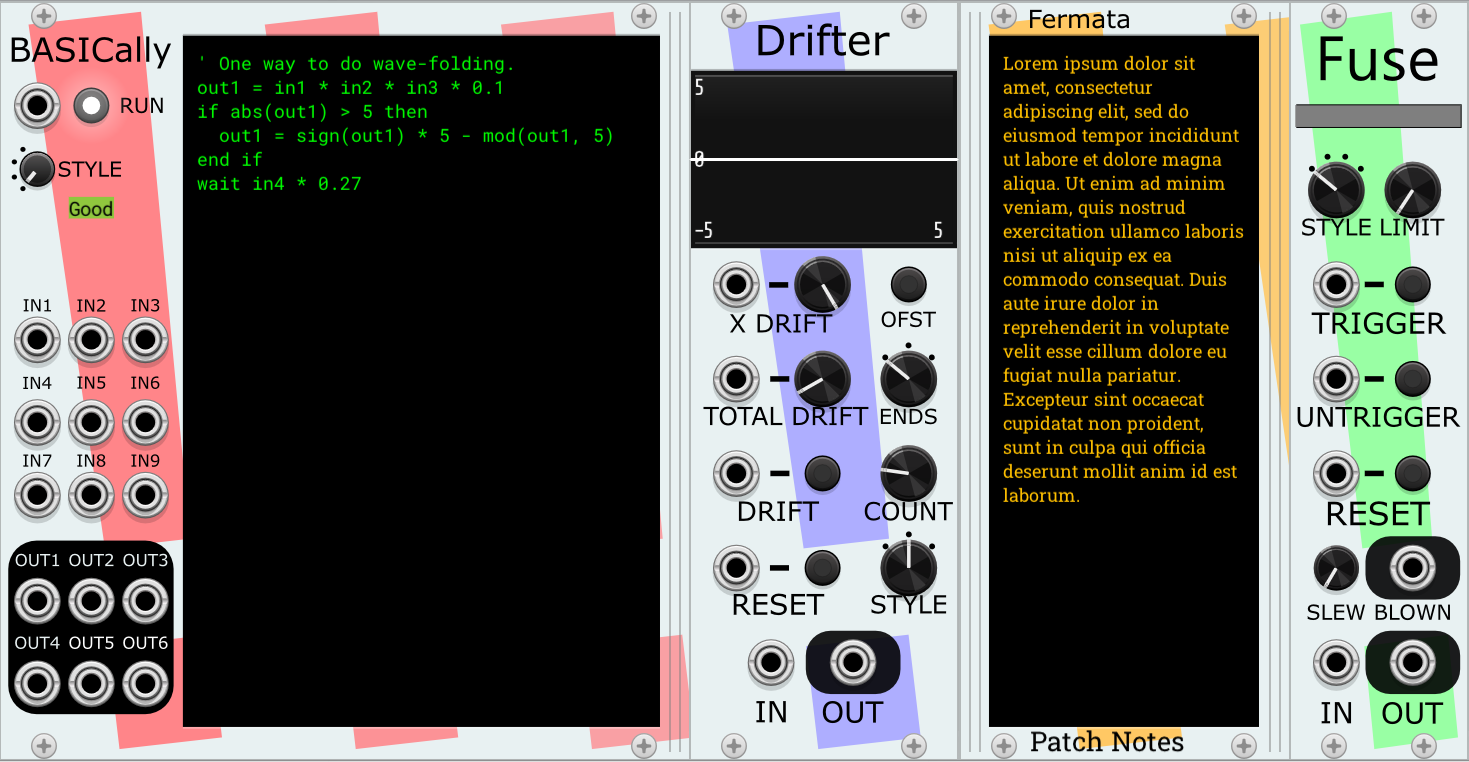
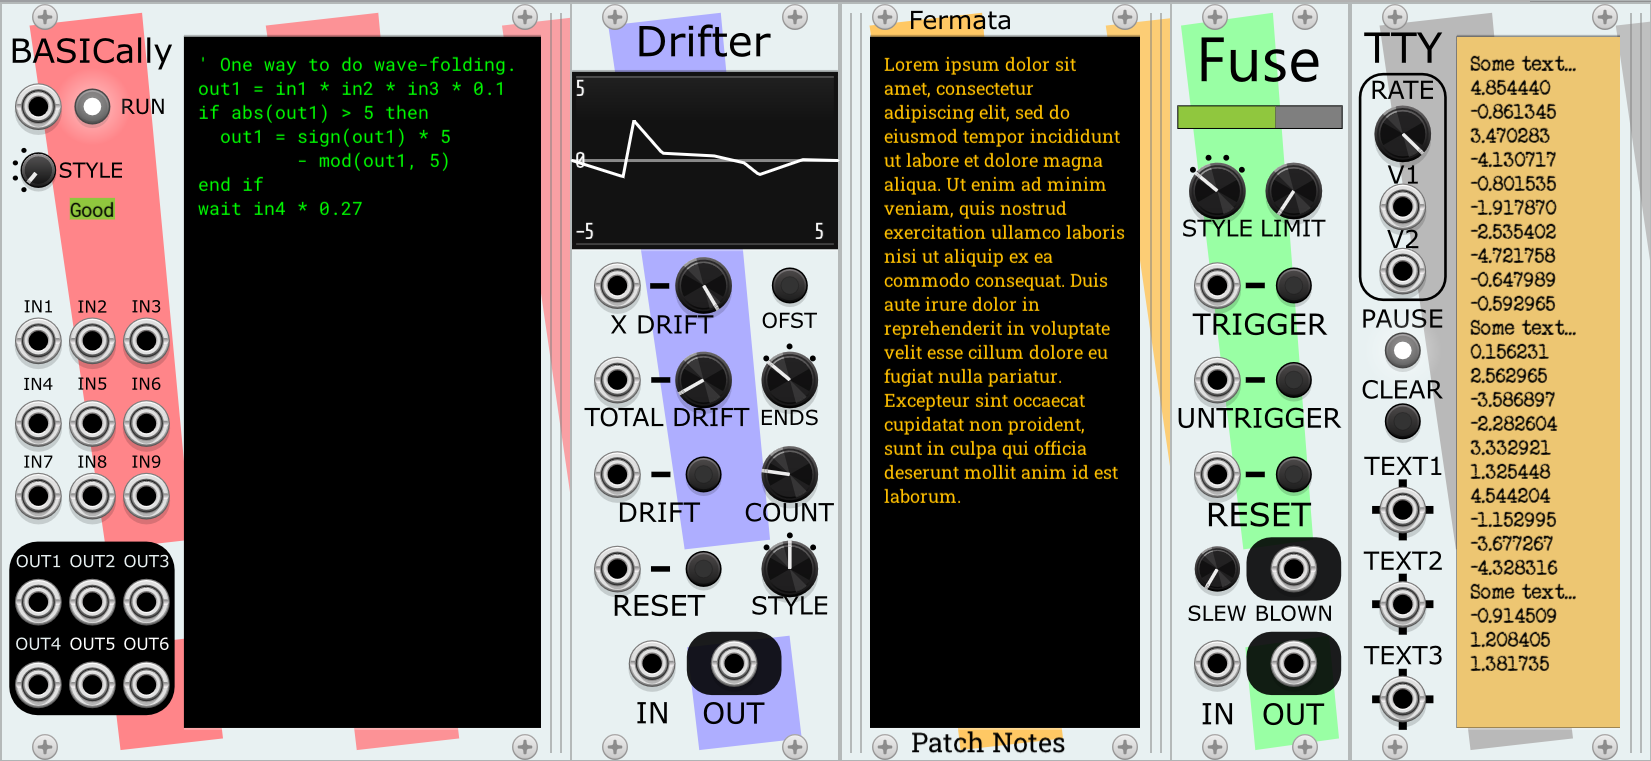
Updated the BASICally docs for text production
Could be much better...but kinda just want to get it out there!

diff --git a/src/Basically.cpp b/src/Basically.cpp
@@ -1492,6 +1492,7 @@ struct BasicallyWidget : ModuleWidget {
       }
     );
     menu->addChild(syntax_menu);
+
     // Now add math functions.
     // description, inserted text.
     std::pair<std::string, std::string> math_funcs[] = {
@@ -1534,6 +1535,29 @@ struct BasicallyWidget : ModuleWidget {
       }
     );
     menu->addChild(math_menu);
+
+    // Now add text functions.
+    // description, inserted text.
+    std::pair<std::string, std::string> text_funcs[] = {
+      {"debug(var_name) - text of the form 'var_name = (current value of var_name)'",
+       "debug(foo)"},
+      {"debug(array_name[], startpos, lastpos) - "
+       "text of the form 'array_name[startpos] = {(current values of array_name)}'",
+       "debug(foo[], 0, 10)"},
+      {"print(OUTn, text, text, ...) - joins all of the text and sends them to OUTn",
+       "print(OUT6, \"hello, world!\")"}
+    };
+    MenuItem* text_menu = createSubmenuItem("Text", "",
+      [=](Menu* menu) {
+          for (auto line : text_funcs) {
+            menu->addChild(createMenuItem(line.first, "",
+              [=]() { codeDisplay->insertText(line.second); }
+            ));
+          }
+      }
+    );
+    menu->addChild(text_menu);
+
   }
 };
 

diff --git a/src/TTY.cpp b/src/TTY.cpp
@@ -13,14 +13,11 @@
   TODO's:
   Try to get the scroll position to not reset to the top when text is deleted.
   And consider making a cursor at the end of the output, to show user that's
-  where the next output will be? Maybe not, might not be wrth the effort.
+  where the next output will be? Maybe not, might not be worth the effort.
   Add new type and color to BASICally and Fermata?
   Add Fermata docs to TTY Examples.
   Pick default colors and font.
-  Write docs for TTY.
   Chat with paul+paul about documenting Tipsy.
-  Update BASICally docs!
-  Add new BASICally "text" section to context menu, like Math and Syntax.
 */
 
 static constexpr size_t recvBufferSize{1024 * 64};

diff --git a/README.md b/README.md
@@ -79,6 +79,13 @@ through it.
 * Edits in the text window become part of the VCV Rack Undo/Redo system.
 * You can pick from a (small) number of screen color schemes in the menu.
 * [Scientific pitch notation](https://en.m.wikipedia.org/wiki/Scientific_pitch_notation) is supported (e.g., c4, Db2, d#8). They are turned into V/OCT values.
+* Using the [Tipsy text protocol](https://github.com/baconpaul/tipsy-encoder),
+BASICally can [send messages](#text-functions) to modules that accept Tipsy text messages, such as
+[TTY](#tty). This can be useful for debugging and other situations where mere graphs
+are not as informative as text, and one may expect future modules that accept
+Tipsy text messages.
+* Easily allows for [multitasking](#multitasking-also-and-when-blocks) within
+the same BASICally module.
 
 ## The Language
 ### Setting and Using Variables (Assignment and Math)
@@ -122,7 +129,7 @@ in IF-THEN[-ELSE] statements.
 * **"and", "or", "not"** -- Boolean logic operators. For purposes of these, a zero
 value is treated as **FALSE**, and *any non-zero value* is treated as **TRUE**.
 
-### Functions
+### Math Functions
 
 | Function  | Meaning        | Examples |
 | --------- | -------------- | -------- |
@@ -151,6 +158,19 @@ value is treated as **FALSE**, and *any non-zero value* is treated as **TRUE**.
 system-dependent. On my Windows system, for one, the minimum non-zero interval
 between calls to time_millis() is about 16 milliseconds. This makes them
 unsuitable for making, say, consistent 40Hz signals.
+
+### Text functions
+
+BASICally can create text messages and send them in the Tipsy encoding to
+modules that can use them or display them (for example, [TTY](#tty)). Unlike
+most other languages, BASICally does *not* (yet) have variables or arrays that
+can store text, so the only way these get used is via **print()**.
+
+| Function | Meaning       | Examples |
+| -------- | ------------- | -------- |
+| **debug(foo)** | returns text of the form 'foo = (current value of var_name)' | debug(foo) -> "foo = 3.14159" |
+| **debug(bar[], start, end)** | returns text of the form 'bar[start] = { (values in bar[]) }' | debug(bar[], 0, 3) -> "bar[0] = {2, 3.11, 0, -4}" |
+| **print(OUTn, text, text, ...)** | Joins the computed text and sends it out the port. | print(OUT6, "note = ", sin(IN1)) -> Sends "note = 0.5" via OUT6 port. |
 
 ### WAIT Statements
 Always in the form:
@@ -392,7 +412,7 @@ to the RUN input or pushing the RUN button will start it again.
 
 ### RESET
 Whenever a "RESET" is executed, it immediately stops processing this sample, and on the
-next sample each block (see Multithreading, below) will start from scratch. It does NOT
+next sample each block (see Multitasking, below) will start from scratch. It does NOT
 change any variable values. This is very similar to the state when you've just typed a
 character into the editing window and the code compiles correctly, with one
 exception; recompiling the code makes start() become true, but RESET does NOT make start() become true.
@@ -410,7 +430,7 @@ END IF
 
 the "out2 = 0" will NEVER be executed.
 
-## Multithreading: ALSO and WHEN blocks
+## Multitasking: ALSO and WHEN blocks
 
 **Note: This section has kind of advanced topics, or at least they have the
 potential to make BASICally more confusing, especially if you are new to
@@ -429,7 +449,7 @@ this concept should be better integrated into the language.
 * Checking for a trigger at an IN port is difficult, and impossible during a
 WAIT.
 
-To allow BASICally to do these things, version 2.0.7 introduced "multithreading"
+To allow BASICally to do these things, version 2.0.7 introduced "multitasking"
 and "blocks".
 
 ### Blocks
@@ -561,7 +581,7 @@ pause_length = random(100, 2000)  '  How fast we play the notes.
 END WHEN
 ```
 
-### Details of Multithreading
+### Details of Multitasking
 
 Some notes about how this all works under the hood.
 
